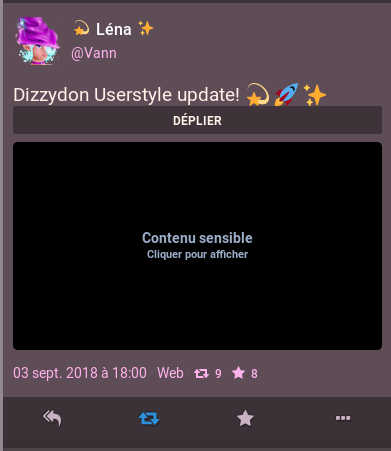
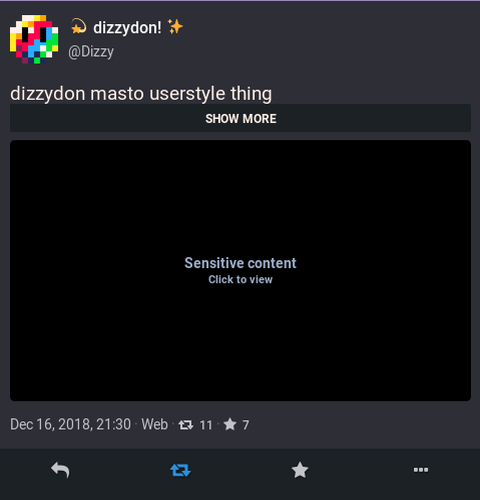
Update screenshots

diff --git a/README.md b/README.md
@@ -3,7 +3,7 @@ A customizable userstyle for Mastodon
 
 [Requires Stylus](https://add0n.com/stylus.html)
 
-<img src="https://raw.githubusercontent.com/dizzy-labs/dizzydon/master/screenshots/dizzydon-default.png" width="360px" height="190px" alt="dizzydon default styling"><img src="https://raw.githubusercontent.com/dizzy-labs/dizzydon/master/screenshots/dizzydon-transparent-blue.png" width="360px" height="190px" alt="dizzydon with the transparent blue theme"><img src="https://raw.githubusercontent.com/dizzy-labs/dizzydon/master/screenshots/dizzydon-planet-rings.png" width="360px" height="190px" alt="dizzydon with a customized version of the default theme"><img src="https://raw.githubusercontent.com/dizzy-labs/dizzydon/master/screenshots/dizzydon-pink-2.2.1.PNG" width="360px" height="190px" alt="dizzydon 2.2.1 with the pastel-pink theme">
+<img src="https://raw.githubusercontent.com/dizzy-labs/dizzydon/master/screenshots/dizzydon-default.png" width="360px" height="190px" alt="dizzydon default styling"><img src="https://raw.githubusercontent.com/dizzy-labs/dizzydon/master/screenshots/dizzydon-three-column-reverse.png" width="360px" height="190px" alt="dizzydon with three pinned columns in reverse order"><img src="https://raw.githubusercontent.com/dizzy-labs/dizzydon/master/screenshots/dizzydon-aurora.png" width="360px" height="190px" alt="dizzydon with a customized version of the default theme"><img src="https://raw.githubusercontent.com/dizzy-labs/dizzydon/master/screenshots/dizzydon-pink-2.4.3.png" width="360px" height="190px" alt="dizzydon 2.4.3 with the pastel-pink theme">
 
 # Features
 * Custom css for mastodon
@@ -17,7 +17,7 @@ A customizable userstyle for Mastodon
 * Background images
 * Toggles to hide reply counts and filter tombstones
 
-<img src="https://raw.githubusercontent.com/dizzy-labs/dizzydon/master/screenshots/dizzydon-better-spoilers.png" width="300px" alt="An example of the full size Show More/Less buttons"> <img src="https://raw.githubusercontent.com/dizzy-labs/dizzydon/master/screenshots/dizzydon-upload-images.png" width="180px" alt="example of uploaded images stacking"> <img src="https://raw.githubusercontent.com/dizzy-labs/dizzydon/master/screenshots/dizzydon-configuration.png" width="160px" alt="config menu for dizzydon v2.3.0">
+<img src="https://raw.githubusercontent.com/dizzy-labs/dizzydon/master/screenshots/dizzydon-better-spoilers.png" width="480px" alt="An example of the full size Show More/Less buttons"> <img src="https://raw.githubusercontent.com/dizzy-labs/dizzydon/master/screenshots/dizzydon-upload-images.png" width="168px" alt="example of uploaded images stacking"> <img src="https://raw.githubusercontent.com/dizzy-labs/dizzydon/master/screenshots/dizzydon-configuration.png" width="277px" alt="config menu for dizzydon v2.4.3">
 
 # How to Install
 (First, install [Stylus](https://add0n.com/stylus.html) for your browser if you haven't aleady.)
